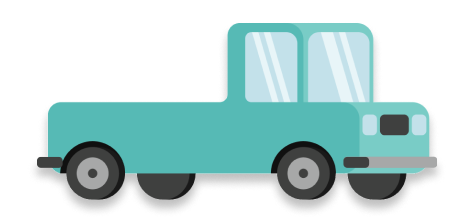
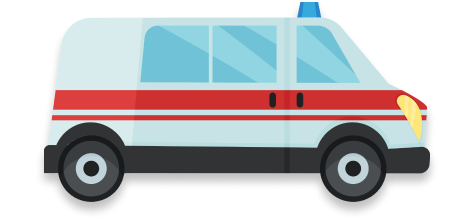
fixed roWeb submit question and added load moving object images from api

diff --git a/Assets/Scripts/GameSettings.cs b/Assets/Scripts/GameSettings.cs
@@ -5,8 +5,7 @@ using System;
 public class GameSettings : Settings
 {
     public int playerNumber = 0;
-    public string frameImageUrl_P1;
-    public string frameImageUrl_P2;
+    public string[] moveItemsImages;
     public string grid_image;
     //public string normal_color;
     //public string pressed_color;
@@ -19,11 +18,18 @@ public static class SetParams
         if (settings != null && jsonNode != null)
         {
             ////////Game Customization params/////////
-            string frameImageUrl_P1 = jsonNode["setting"]["frame_p1"] != null ?
-                jsonNode["setting"]["frame_p1"].ToString().Replace("\"", "") : null;
+            var jsonArray = jsonNode["setting"]["move_item_images"].AsArray;
 
-            string frameImageUrl_P2 = jsonNode["setting"]["frame_p2"] != null ?
-                jsonNode["setting"]["frame_p2"].ToString().Replace("\"", "") : null;
+            if(jsonArray != null)
+            {
+                settings.moveItemsImages = new string[jsonArray.Count];
+                for (int i = 0; i < jsonArray.Count; i++)
+                {
+                    var movingItems = jsonArray[i].ToString().Replace("\"", "");
+                    if (!movingItems.StartsWith("https://") || !movingItems.StartsWith(APIConstant.blobServerRelativePath))
+                        settings.moveItemsImages[i] = APIConstant.blobServerRelativePath + movingItems;
+                }
+            }
 
             string grid_image = jsonNode["setting"]["grid_image"] != null ?
                 jsonNode["setting"]["grid_image"].ToString().Replace("\"", "") : null;
@@ -32,28 +38,6 @@ public static class SetParams
             {
                 settings.playerNumber = jsonNode["setting"]["player_number"];
                 LoaderConfig.Instance.gameSetup.playerNumber = settings.playerNumber;
-            }
-
-            /*this.settings.normal_color = jsonNode["setting"]["normal_color"] != null ?
-                jsonNode["setting"]["normal_color"].ToString().Replace("\"", "") : null;
-
-            this.settings.pressed_color = jsonNode["setting"]["pressed_color"] != null ? 
-                jsonNode["setting"]["pressed_color"].ToString().Replace("\"", "") : null;*/
-
-            /*LoaderConfig.Instance.gameSetup.gridNormalColor = ColorUtility.TryParseHtmlString(settings.normal_color, out Color normalColor) ? normalColor : Color.clear;
-
-            LoaderConfig.Instance.gameSetup.gridPressedColor = ColorUtility.TryParseHtmlString(settings.pressed_color, out Color pressedColor) ? pressedColor : Color.clear;*/
-
-            if (frameImageUrl_P1 != null)
-            {
-                if (!frameImageUrl_P1.StartsWith("https://") || !frameImageUrl_P1.StartsWith(APIConstant.blobServerRelativePath))
-                    settings.frameImageUrl_P1 = APIConstant.blobServerRelativePath + frameImageUrl_P1;
-            }
-
-            if (frameImageUrl_P2 != null)
-            {
-                if (!frameImageUrl_P2.StartsWith("https://") || !frameImageUrl_P2.StartsWith(APIConstant.blobServerRelativePath))
-                    settings.frameImageUrl_P2 = APIConstant.blobServerRelativePath + frameImageUrl_P2;
             }
 
             if (grid_image != null)

diff --git a/Assets/Scripts/Class/GameSetting.cs b/Assets/Scripts/Class/GameSetting.cs
@@ -140,11 +140,16 @@ public class GameSetting : MonoBehaviour
         {
             this.apiManager.settings.backgroundImageUrl,
             this.apiManager.settings.previewGameImageUrl,
-            this.apiManager.settings.frameImageUrl_P1,
-            this.apiManager.settings.frameImageUrl_P2,
             this.apiManager.settings.grid_image
         };
         imageUrls = imageUrls.Where(url => !string.IsNullOrEmpty(url)).ToList();
+
+        string[] moveItemsImages = this.apiManager.settings.moveItemsImages;
+
+        if (moveItemsImages != null)
+        {
+            imageUrls.AddRange(moveItemsImages.Where(url => !string.IsNullOrEmpty(url)));
+        }
 
         if (imageUrls.Count > 0)
         {
@@ -179,17 +184,17 @@ public class GameSetting : MonoBehaviour
             {
                 this.gameSetup.previewTexture = texture != null ? texture : null;
             }
-            else if (url == this.apiManager.settings.frameImageUrl_P1)
-            {
-                this.gameSetup.frameTexture_p1 = texture != null ? texture : null;
-            }
-            else if (url == this.apiManager.settings.frameImageUrl_P2)
-            {
-                this.gameSetup.frameTexture_p2 = texture != null ? texture : null;
-            }
             else if (url == this.apiManager.settings.grid_image)
             {
                 this.gameSetup.gridTexture = texture != null ? texture : null;
+            }
+            else if (this.apiManager.settings.moveItemsImages.Contains(url))
+            {
+                if (this.gameSetup.movingItemsTextures == null)
+                {
+                    this.gameSetup.movingItemsTextures = new List<Texture>();
+                }
+                this.gameSetup.movingItemsTextures.Add(texture != null ? texture : null);
             }
         }
 
@@ -256,10 +261,8 @@ public class GameSetup : LoadImage
     public Texture bgTexture;
     [Tooltip("Default Game Preview Texture")]
     public Texture previewTexture;
-    [Tooltip("Default P1 Frame Texture")]
-    public Texture frameTexture_p1;
-    [Tooltip("Default P2 Frame Texture")]
-    public Texture frameTexture_p2;
+    [Tooltip("Default Array Textures of moving Items")]
+    public List<Texture> movingItemsTextures = new List<Texture>();
     [Tooltip("Default grid Texture")]
     public Texture gridTexture;
     [Tooltip("Find Tag name of GameBackground in different scene")]

diff --git a/Assets/Scripts/PlayerController.cs b/Assets/Scripts/PlayerController.cs
@@ -198,13 +198,12 @@ public class PlayerController : UserData
                                currentQuestion.correctAnswer,
                                score,
                                currentQAPercent,
-                               onCompleted
+                               null
                                );
                 }
-                else
-                {
-                   onCompleted?.Invoke();
-                }
+            }, ()=>
+            {
+                onCompleted?.Invoke();
             }));
         }
     }
@@ -216,7 +215,7 @@ public class PlayerController : UserData
         this.IsTriggerToNextQuestion = false;
     }
 
-    public IEnumerator showAnswerResult(bool correct, Action onCompleted = null)
+    public IEnumerator showAnswerResult(bool correct, Action onCorrectCompleted = null, Action onFailureCompleted = null)
     {
         float delay = 2f;
         if (correct)
@@ -224,6 +223,7 @@ public class PlayerController : UserData
             LogController.Instance?.debug("Add marks" + this.Score);
             GameController.Instance?.setGetScorePopup(true);
             AudioController.Instance?.PlayAudio(1);
+            onCorrectCompleted?.Invoke();
             yield return new WaitForSeconds(delay);
             GameController.Instance?.setGetScorePopup(false);
             GameController.Instance?.UpdateNextQuestion();
@@ -238,12 +238,12 @@ public class PlayerController : UserData
             if (this.Retry <= 0)
             {
                 SetUI.Set(this.joystick.GetComponent<CanvasGroup>(), false, 0f, 0.5f);
+                onCorrectCompleted?.Invoke();
                 this.IsTriggerToNextQuestion = true;
             }
+            onFailureCompleted?.Invoke();
         }
         this.scoring.correct = false;
-
-        onCompleted?.Invoke();
     }
 
     public void characterReset()

diff --git a/Assets/Scripts/MovingObject.cs b/Assets/Scripts/MovingObject.cs
@@ -19,6 +19,11 @@ public class MovingObject : MonoBehaviour
     {
         if (this.objectImage == null) this.objectImage = this.GetComponent<RawImage>();
         if (this.rectTransform == null) this.rectTransform = this.GetComponent<RectTransform>();
+
+        if(LoaderConfig.Instance != null && LoaderConfig.Instance.apiManager.IsLogined && LoaderConfig.Instance.gameSetup.movingItemsTextures.Count > 0)
+        {
+            this.objectTextures = LoaderConfig.Instance.gameSetup.movingItemsTextures.ToArray();
+        }
     }
 
     public enum MovingDirection
